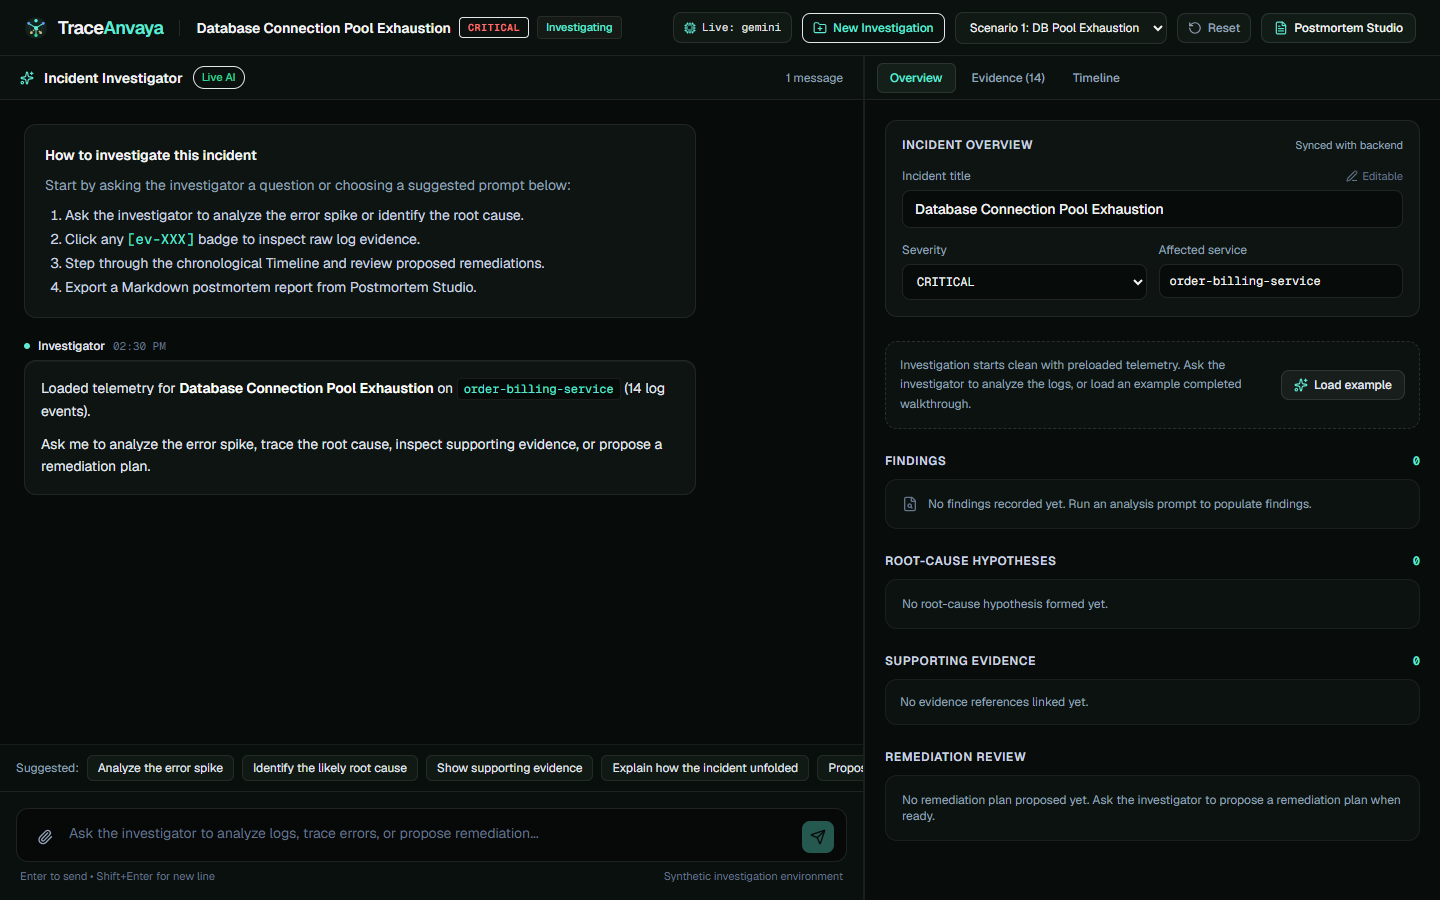
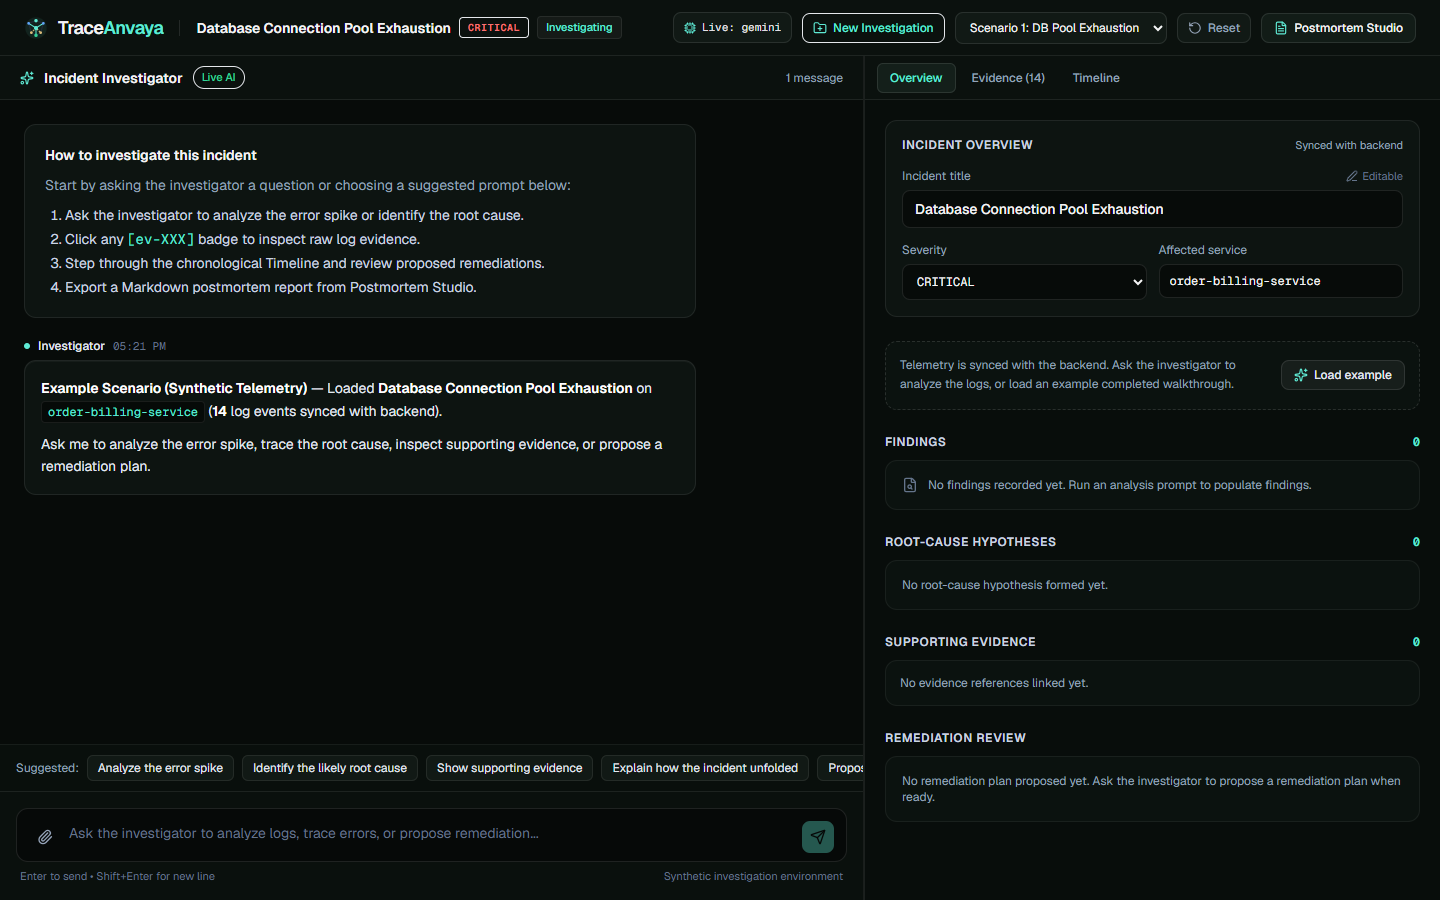
fix: recover cleanly from stale session tokens and fix sync status indicators

Changed region(s): [[0.5938, 0.4044, 0.9688, 0.9333], [0.0312, 0.4044, 0.4688, 0.4667]]

diff --git a/frontend/src/app/workspace/page.tsx b/frontend/src/app/workspace/page.tsx
@@ -34,7 +34,9 @@ function WorkspaceContent() {
       : ""
   );
   const [backendOnline, setBackendOnline] = useState<boolean>(false);
+  const [backendSynced, setBackendSynced] = useState<boolean>(false);
   const [aiMode, setAiMode] = useState<"live" | "demo">("demo");
+  const initPromiseRef = useRef<Promise<{ sid: string; token: string }> | null>(null);
   const [providerCatalog, setProviderCatalog] = useState<ProviderCatalog | null>(null);
   const [showCustomModal, setShowCustomModal] = useState<boolean>(false);
   const [showProviderModal, setShowProviderModal] = useState<boolean>(false);
@@ -48,37 +50,57 @@ function WorkspaceContent() {
     }, 2600);
   };
 
-  const ensureSession = async (): Promise<{ sid: string; token: string }> => {
-    if (sessionTokenRef.current && sessionId && !sessionId.startsWith("sess-local-")) {
+  const ensureSession = async (forceRefresh = false): Promise<{ sid: string; token: string }> => {
+    if (forceRefresh) {
+      sessionTokenRef.current = "";
+      initPromiseRef.current = null;
+      if (typeof window !== "undefined") {
+        window.sessionStorage.removeItem("traceanvaya_session_id");
+        window.sessionStorage.removeItem("traceanvaya_session_token");
+      }
+    } else if (sessionTokenRef.current && sessionId && !sessionId.startsWith("sess-local-")) {
       return { sid: sessionId, token: sessionTokenRef.current };
     }
+
     if (!BACKEND_URL) {
       return { sid: sessionId, token: "" };
     }
-    try {
-      const res = await fetch(`${BACKEND_URL}/api/sessions/init`, {
-        method: "POST",
-        credentials: "include",
-        headers: sessionTokenRef.current
-          ? { "X-TraceAnvaya-Session": sessionTokenRef.current }
-          : undefined,
-      });
-      if (res.ok) {
-        const data = await res.json();
-        if (data.session_id && data.token) {
-          sessionTokenRef.current = data.token;
-          setSessionId(data.session_id);
-          if (typeof window !== "undefined") {
-            window.sessionStorage.setItem("traceanvaya_session_id", data.session_id);
-            window.sessionStorage.setItem("traceanvaya_session_token", data.token);
-          }
-          return { sid: data.session_id, token: data.token };
-        }
-      }
-    } catch {
-      // Offline / Demo Mode fallback
+
+    if (initPromiseRef.current) {
+      return initPromiseRef.current;
     }
-    return { sid: sessionId, token: sessionTokenRef.current };
+
+    initPromiseRef.current = (async () => {
+      try {
+        const res = await fetch(`${BACKEND_URL}/api/sessions/init`, {
+          method: "POST",
+          credentials: "include",
+          headers:
+            !forceRefresh && sessionTokenRef.current
+              ? { "X-TraceAnvaya-Session": sessionTokenRef.current }
+              : undefined,
+        });
+        if (res.ok) {
+          const data = await res.json();
+          if (data.session_id && data.token) {
+            sessionTokenRef.current = data.token;
+            setSessionId(data.session_id);
+            if (typeof window !== "undefined") {
+              window.sessionStorage.setItem("traceanvaya_session_id", data.session_id);
+              window.sessionStorage.setItem("traceanvaya_session_token", data.token);
+            }
+            return { sid: data.session_id, token: data.token };
+          }
+        }
+      } catch {
+        // Offline / Demo Mode fallback
+      } finally {
+        initPromiseRef.current = null;
+      }
+      return { sid: sessionId, token: sessionTokenRef.current };
+    })();
+
+    return initPromiseRef.current;
   };
 
   const authHeaders = (token: string, extra?: Record<string, string>): Record<string, string> => ({
@@ -232,27 +254,37 @@ function WorkspaceContent() {
 
     const preset = SCENARIO_PRESETS[scenarioKey] || SCENARIO_PRESETS["scenario-1"];
     let loadedEvidence: EvidenceItem[] = [];
-    let backendSynced = false;
+    let synced = false;
     let syncErrorDetail = "";
+    setBackendSynced(false);
 
     try {
-      const { sid, token } = await ensureSession();
+      let { sid, token } = await ensureSession(false);
       const controller = new AbortController();
       const timeoutId = setTimeout(() => controller.abort(), 10000);
 
-      // Load scenario into backend store if available
-      const loadRes = await fetch(
-        `${BACKEND_URL}/api/scenarios/${scenarioKey}/load?session_id=${sid}`,
-        {
+      const attemptScenarioLoad = async (targetSid: string, targetToken: string) =>
+        fetch(`${BACKEND_URL}/api/scenarios/${scenarioKey}/load?session_id=${targetSid}`, {
           method: "POST",
           credentials: "include",
-          headers: authHeaders(token),
+          headers: authHeaders(targetToken),
           signal: controller.signal,
+        }).catch((err) => {
+          syncErrorDetail = err?.message || "Network error";
+          return null;
+        });
+
+      let loadRes = await attemptScenarioLoad(sid, token);
+
+      // Safe single retry on 401/403 (stale token after backend restart or SESSION_SECRET rotation)
+      if (loadRes && (loadRes.status === 401 || loadRes.status === 403)) {
+        const refreshed = await ensureSession(true);
+        sid = refreshed.sid;
+        token = refreshed.token;
+        if (token) {
+          loadRes = await attemptScenarioLoad(sid, token);
         }
-      ).catch((err) => {
-        syncErrorDetail = err?.message || "Network error";
-        return null;
-      });
+      }
 
       if (loadRes && loadRes.ok) {
         setBackendOnline(true);
@@ -268,7 +300,8 @@ function WorkspaceContent() {
           const evData = await evRes.json();
           if (Array.isArray(evData) && evData.length > 0) {
             loadedEvidence = evData;
-            backendSynced = true;
+            synced = true;
+            setBackendSynced(true);
           }
         }
       } else if (loadRes) {
@@ -280,8 +313,9 @@ function WorkspaceContent() {
       syncErrorDetail = err?.message || "Connection failed";
     }
 
-    if (!backendSynced) {
+    if (!synced) {
       // Only use local offline preview when backend is unreachable/demo; never claim backend ingestion succeeded
+      setBackendSynced(false);
       loadedEvidence = BACKEND_URL ? [] : preset.evidence;
       setEvidenceList(loadedEvidence);
       setSelectedEvidence(loadedEvidence[0] || null);
@@ -941,7 +975,9 @@ function WorkspaceContent() {
       nextState.source_labels = Array.from(
         new Set(loadedItems.map((e) => e.source_label || e.service).filter(Boolean))
       );
+      setBackendSynced(true);
     } else {
+      setBackendSynced(false);
       setEvidenceList([]);
       setSelectedEvidence(null);
     }
@@ -1132,6 +1168,7 @@ function WorkspaceContent() {
             <InvestigationCanvas
               canvasState={canvasState}
               backendOnline={backendOnline}
+              backendSynced={backendSynced}
               onUpdateCanvasState={handleUpdateCanvasState}
               onRemediationDecision={handleRemediationDecision}
               onCitationClick={handleCitationClick}

diff --git a/frontend/src/components/workspace/InvestigationCanvas.tsx b/frontend/src/components/workspace/InvestigationCanvas.tsx
@@ -7,6 +7,7 @@ import { InvestigationState } from "./types";
 interface InvestigationCanvasProps {
   canvasState: InvestigationState;
   backendOnline: boolean;
+  backendSynced?: boolean;
   onUpdateCanvasState: (updates: Partial<InvestigationState>) => void;
   onRemediationDecision: (decision: "APPROVED" | "REJECTED") => void;
   onCitationClick: (evidenceId: string) => void;
@@ -41,6 +42,7 @@ function formatApprovalBadge(approval: string) {
 export function InvestigationCanvas({
   canvasState,
   backendOnline,
+  backendSynced = false,
   onUpdateCanvasState,
   onRemediationDecision,
   onCitationClick,
@@ -61,7 +63,7 @@ export function InvestigationCanvas({
             Incident overview
           </h3>
           <span className="text-[11px] font-sans text-slate-400">
-            {backendOnline ? "Synced with backend" : "Local session"}
+            {backendSynced ? "Synced with backend" : backendOnline ? "Not synced" : "Local session"}
           </span>
         </div>
 
@@ -123,7 +125,9 @@ export function InvestigationCanvas({
       {isFreshState && onLoadExampleInvestigation && (
         <div className="p-3.5 rounded-xl border border-dashed border-white/[0.12] bg-[#0B120F] flex items-center justify-between gap-3">
           <div className="text-xs text-muted font-sans leading-relaxed">
-            Investigation starts clean with preloaded telemetry. Ask the investigator to analyze the logs, or load an example completed walkthrough.
+            {backendSynced
+              ? "Telemetry is synced with the backend. Ask the investigator to analyze the logs, or load an example completed walkthrough."
+              : "Upload or paste logs, or sync an example scenario with the backend before running live analysis."}
           </div>
           <button
             type="button"

diff --git a/frontend/tests/security-and-polish.spec.ts b/frontend/tests/security-and-polish.spec.ts
@@ -68,4 +68,17 @@ test.describe("Production Security, Sticky Navbar & Visual Polish", () => {
     await page.waitForTimeout(500);
     await page.screenshot({ path: "../screenshots/polish-audit/after-workspace-1440.png" });
   });
+
+  test("Stale or expired sessionStorage token recovers cleanly without error banner", async ({ page }) => {
+    await page.addInitScript(() => {
+      window.sessionStorage.setItem("traceanvaya_session_id", "sess-stale12345");
+      window.sessionStorage.setItem("traceanvaya_session_token", "sess-stale12345.1000000000.invalidsig");
+    });
+
+    await page.goto("/workspace?scenario=scenario-1");
+    await expect(page.locator("text=Example Scenario (Synthetic Telemetry)")).toBeVisible({ timeout: 10000 });
+    await expect(page.locator('button:has-text("Evidence (14)"):visible')).toBeVisible();
+    await expect(page.getByText("Synced with backend", { exact: true })).toBeVisible();
+    await expect(page.locator("text=Backend Telemetry Sync Failed")).not.toBeVisible();
+  });
 });

diff --git a/frontend/src/components/chat/MessageItem.tsx b/frontend/src/components/chat/MessageItem.tsx
@@ -30,7 +30,13 @@ export function MessageItem({ message, onCitationClick }: MessageItemProps) {
           <span className="w-1.5 h-1.5 rounded-full bg-accent inline-block" />
         )}
         <span className="font-medium text-slate-200 font-sans">
-          {isUser ? "You" : isSystem ? "Approval Gate" : "Investigator"}
+          {isUser
+            ? "You"
+            : isSystem
+            ? message.content.includes("Remediation")
+              ? "Approval Gate"
+              : "System Notice"
+            : "Investigator"}
         </span>
         <span className="font-mono text-[11px] text-slate-500">{message.timestamp}</span>
       </div>
